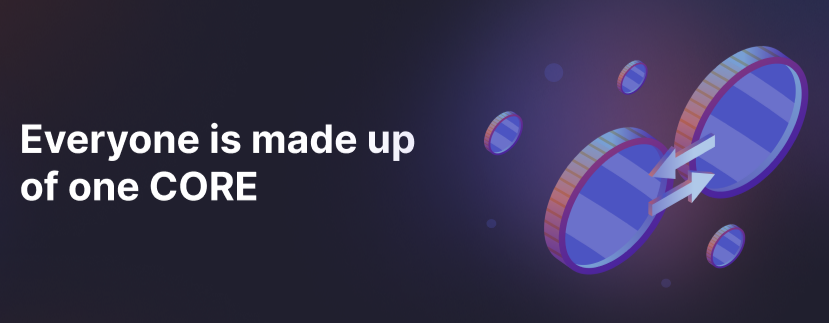
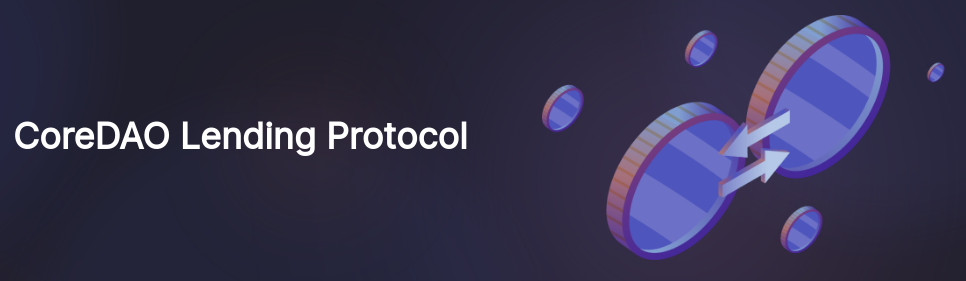
update opengraph

Changed region(s): [[0.5428, 0.0569, 0.9952, 0.9395], [0.0, 0.3701, 0.5127, 0.6263], [0.7841, 0.6833, 0.9047, 0.911]]

diff --git a/src/components/home/Hero.tsx b/src/components/home/Hero.tsx
@@ -15,9 +15,7 @@ export const Hero: FC<BoxProps> = ({ ...props }) => {
       <VStack align="left">
         <HStack mb={{ base: "2", md: "4" }} justifyContent="space-between">
           <Heading fontSize={{ base: "2xl", md: "4xl" }} alignSelf="center">
-            Next Generation
-            <br />
-            Smart Contract Governance
+            CoreDAO Lending Protocol
           </Heading>
           <Img
             display={{ base: "flex", sm: "none" }}
@@ -25,13 +23,7 @@ export const Hero: FC<BoxProps> = ({ ...props }) => {
             src="/header-logo.png"
           />
         </HStack>
-        <Text color="gray.500" fontSize="lg" align="justify">
-          coreDAO is a fully decentralized autonomous organization
-          <br />
-          which is using a combination of governance systems to achieve
-          <br />
-          its on-chain governance and execution.
-        </Text>
+        <Text color="gray.500" fontSize="lg" align="justify" />
       </VStack>
       <Img
         display={{ base: "none", sm: "flex" }}

diff --git a/src/pages/index.tsx b/src/pages/index.tsx
@@ -2,6 +2,7 @@ import { Stack } from "@chakra-ui/react";
 import { useEthers } from "@usedapp/core";
 import { useRef } from "react";
 
+import { Hero } from "../components/home/Hero";
 import { LendingPosition } from "../components/home/LendingPosition";
 // import { LendingStats } from "../components/home/LendingStats";
 import { YourPositions } from "../components/home/YourPositions";
@@ -26,6 +27,7 @@ const Home = () => {
 
   return (
     <Stack spacing="6" width="100%">
+      <Hero mb={{ base: "0", md: "8" }} />
       {/* <LendingStats /> */}
       <LendingPosition scrollRef={lendingDiv} ref={childDiv} />
       {/* <YourStats /> */}

diff --git a/app.config.js b/app.config.js
@@ -1,13 +1,13 @@
 const infuraId = "9aa3d95b3bc440fa88ea12eaa4456161";
-const url = "https://coregov-test.on.fleek.co/";
+const url = "https://coregov.eth.link";
 
 module.exports = {
-  title: "Core Lending Protocol",
-  appName: "Core Lending",
-  description: "Core Lending Protocol",
+  title: "CoreDAO Lending Protocol",
+  appName: "CoreDAO Lending",
+  description: "CoreDAO Lending Protocol",
   url,
   ogImageUrl:
-    "https://gateway.pinata.cloud/ipfs/QmbfST2CWKy5bzGErioUs7r1PjNe7PXYkhsNxHxqrKSgX9",
+    "https://gateway.pinata.cloud/ipfs/QmdAHnK7Mu14ZyiU6At2fm9KtpaQoNs3AwK5G6u32dFj2t",
   twitterHandle: "@CORE_Vault",
   infuraId,
 
